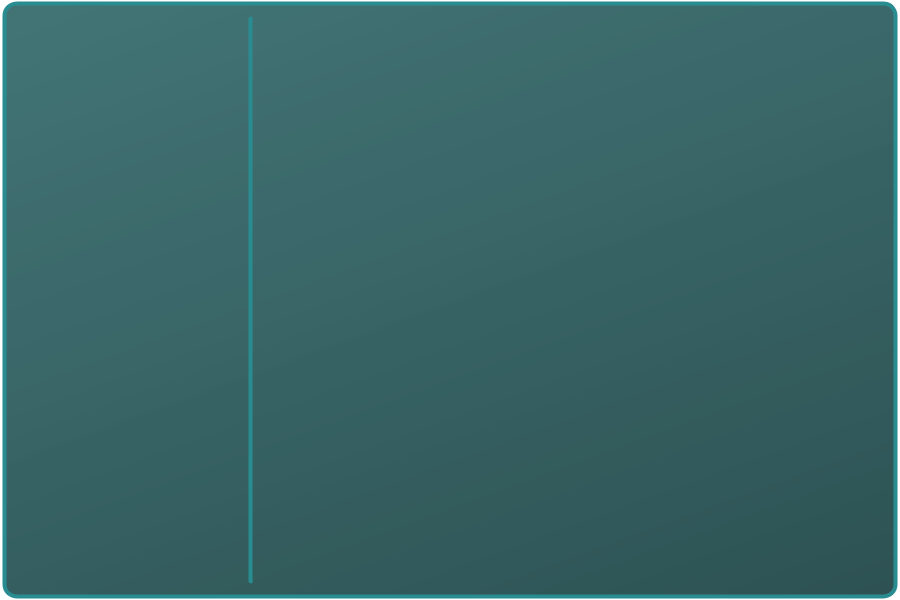
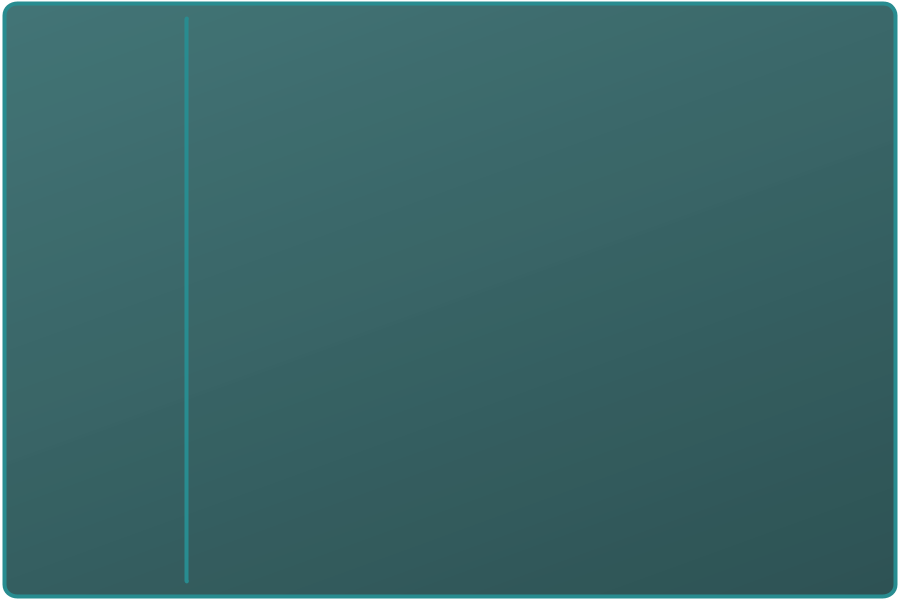
finished storage menu updated storage_menu.png updated storage_menu_layout.json (was previously test layout) added "setup programs", also check_storage_menu_layout.py to check if there are no items missing in storage_layout.json finished main menu of storage menu fixed scrolling inconsistency

Changed region(s): [[0.2489, 0.03, 0.28, 0.96], [0.1867, 0.03, 0.2178, 0.96]]

diff --git a/Files/storage_menu_functions.py b/Files/storage_menu_functions.py
@@ -10,7 +10,8 @@ import copy
 
 storage_font = pg.font.Font('Fonts/Roboto.ttf', 20)
 storage_categories_font = pg.font.Font('Fonts/Lato.ttf', 24)
-
+storage_categories_title_font = pg.font.Font('Fonts/Lato.ttf', 28)
+storage_categories_count_font = pg.font.Font('Fonts/Lato.ttf', 23)
 
 class storageMenu:
     def __init__(self, storage):
@@ -69,13 +70,40 @@ class storageMenu:
         with open("Data/storage_menu_layout.json") as f:
             self.storage_layout = json.load(f) # all items theoretically displayed
         self.menu_display_items = {} # all items displayed (only unlocked items)
+        self.all_menu_display_items = {} # self.menu_display_items but not cut for categories
 
         self.categories_rect = []
         self.selected_category_index = -1
+        self.selected_category = ""
 
-        self.start_line_x = 150 # where the line approx. is with margin incl.
+        self.start_line_x = 185 # where the line approx. is with margin excluded!
+        self.category_scroll = 0 # how much the categories list is scrolled. 0 is default, 1 means that you can't see the top element anymore
+
+        self.max_categories_displayed = 18 # how many categories can be displayed max
+        self.max_lines_displayed = 12 # how many lines in main storage menu can be displayed max
+        self.len_menu_display_items = 1 # length of self.menu_display_items before it is cut by self.category_scroll
+
+        self.columns_in_menu = 5 # amount of columns in main menu of storage 
+        #example of main storage layout
+        '''
+        self.main_storage_layout = [
+            ["foods"],
+            [1, 2, 3],
+            ["minerals"],
+            [4, 5, 6],
+            ["accessories"],
+            [7, 8, 9, 10, 11],
+            [12, 13, 14],
+            ["foods1"],
+            [1, 2, 3]
+        ]
+        '''
+        self.main_storage_layout = []
+        self.main_storage_scrolly = 0
+
 
     def draw_storage_menu(self, screen):
+        # draw storage bar (topleft)
         screen.blit(self.pics["storage_display"], self.topleft_margin)
         blit_x = 20
         blit_x_max = 550
@@ -100,22 +128,59 @@ class storageMenu:
             else:
                 break
 
+        # draw storage btn located in storage bar
         screen.blit(self.pics[f"storage_select_{self.display_order}"], (self.storage_bar_display_size[0] - 50, self.topleft_margin[1] + 9))
         self.sort_btn_rect.x = self.storage_bar_display_size[0] - 50
         self.sort_btn_rect.y = self.topleft_margin[1] + 9
         
+        # draw main menu of storage if opened
         self.categories_rect = []
         if self.menu_open:
             screen.blit(self.pics["storage_menu"], (self.topleft_margin[0], self.topleft_margin[1] + self.storage_bar_display_size[1] + 5))
             categories_blit_y = self.topleft_margin[1] + self.storage_bar_display_size[1] + 20
-            for i, category in enumerate(self.menu_display_items):
-                if self.selected_category_index == i:
-                    category_text = storage_categories_font.render(str(category), True, (180, 180, 180))
-                else:
-                    category_text = storage_categories_font.render(str(category), True, (255, 255, 255))
-                screen.blit(category_text, (25, categories_blit_y))
-                self.categories_rect.append(pg.Rect((25, categories_blit_y), category_text.get_size()))
-                categories_blit_y += 30
+            j = 0 # i but only when category in menu_display_items
+            for i, category in enumerate(self.all_menu_display_items):
+                if category in self.menu_display_items:
+                    if j > self.max_categories_displayed:
+                        break
+
+                    if self.selected_category_index == i:
+                        category_text = storage_categories_font.render(str(category), True, (180, 180, 180))
+                    else:
+                        category_text = storage_categories_font.render(str(category), True, (255, 255, 255))
+                    screen.blit(category_text, (25, categories_blit_y))
+                    self.categories_rect.append([pg.Rect((25, categories_blit_y), category_text.get_size()), i])
+                    categories_blit_y += 30
+                    j += 1
+        
+            blit_scrolly = self.main_storage_scrolly
+            j = 0 # how many lines blit so far
+            for i, line in enumerate(self.main_storage_layout):
+                if blit_scrolly >= 0:
+                    if j <= self.max_lines_displayed:
+                        j += 1
+                        if type(line) is str:
+                            if str(line) == self.selected_category:            
+                                category_title = storage_categories_title_font.render(str(line).capitalize(), True, (180, 180, 180))
+                            else:
+                                category_title = storage_categories_title_font.render(str(line).capitalize(), True, (255, 255, 255))
+
+                            screen.blit(category_title, (210, blit_scrolly + self.topleft_margin[1] + self.storage_bar_display_size[1] + 18))
+                        else:
+                            blit_x = 0
+                            for item in line:
+                                item_id = item
+                                screen.blit(self.item_pics[item_id if item_id != 0 else 'r'], (210 + blit_x, blit_scrolly + self.topleft_margin[1] + self.storage_bar_display_size[1] + 18))
+                                blit_x += 45
+                                num = self.storage[item]
+                                if self.storage[item] > 9999:
+                                    num = self.compact_number(qty)
+                                count_text = storage_categories_count_font.render(str(num), True, (255, 255, 255))
+                                screen.blit(count_text, (210 + blit_x, blit_scrolly + self.topleft_margin[1] + self.storage_bar_display_size[1] + 18))
+                                blit_x += 88
+                    else:
+                        break # no reason to continue looping
+                blit_scrolly += 45
 
     def compact_number(self, num):
         num = float('{:.3g}'.format(num))
@@ -123,7 +188,9 @@ class storageMenu:
         while abs(num) >= 1000:
             magnitude += 1
             num /= 1000.0
-        return '{}{}'.format('{:f}'.format(num).rstrip('0').rstrip('.'), ['', 'k', 'M', 'B', 'T', 'Qa.', 'Qu.', 'Se.', 'Sep.', 'Oct.'][magnitude])
+        if magnitude > 9:
+            return '999 Oct.+'
+        return '{} {}'.format('{:f}'.format(num).rstrip('0').rstrip('.'), ['', 'k', 'M', 'B', 'T', 'Qa.', 'Qu.', 'Se.', 'Sep.', 'Oct.'][magnitude])
 
     def update_display_items(self, unlocked_recipes, creater_unlocked_recipes):
         self.display_items = []
@@ -145,7 +212,6 @@ class storageMenu:
             for avg_item in avg_sorted:
                 if avg_sorted[avg_item] != 0.0:
                     self.display_items.append(avg_item)
-
 
         delete_indexes = []
         for i, item in enumerate(self.display_items):
@@ -175,6 +241,25 @@ class storageMenu:
             if self.menu_display_items[category] == []:
                 del self.menu_display_items[category]
         
+        self.len_menu_display_items = len(list(self.menu_display_items.keys()))
+        self.all_menu_display_items = copy.copy(self.menu_display_items)
+
+        keys = list(self.menu_display_items.keys())
+        for i in range(self.category_scroll):
+            del self.menu_display_items[keys[i]]
+
+        self.main_storage_layout = []
+        for disp_i in self.all_menu_display_items:
+            self.main_storage_layout.append(str(disp_i))
+            item_batch = [] # adding items in batches of 5 to main_storage_layout (5 = self.columns_in_menu)
+            for item in self.all_menu_display_items[disp_i]: 
+                item_batch.append(item)
+                if len(item_batch) >= self.columns_in_menu:
+                    self.main_storage_layout.append(item_batch)
+                    item_batch = []
+            if len(item_batch) > 0:
+                self.main_storage_layout.append(item_batch)
+
     def update_storage(self, storage, unlocked_recipes, creater_unlocked_recipes):
         self.storage = storage
         if self.update_prev_storage_perf + 10 <= t.perf_counter():
@@ -196,12 +281,16 @@ class storageMenu:
             elif pg.Rect(self.topleft_margin, self.storage_bar_display_size).collidepoint(mx, my):
                 self.menu_open = not self.menu_open
             elif self.menu_open:
-                for i, rect in enumerate(self.categories_rect):
+                for rect, i in self.categories_rect:
                     if rect.collidepoint(mx, my):
                         if self.selected_category_index == i:
                             self.selected_category_index = -1
+                            self.selected_category = ""
                         else:    
                             self.selected_category_index = i
+                            self.selected_category = list(self.all_menu_display_items.keys())[i]
+                            if self.selected_category in self.main_storage_layout:
+                                self.main_storage_scrolly = -self.main_storage_layout.index(self.selected_category) * 45
 
     def scroll_in_bar(self, scroll, unlocked_recipes, creater_unlocked_recipes):
         scroll_dir = "up" if scroll == 4 else "down" 
@@ -215,3 +304,19 @@ class storageMenu:
             self.start_view_items = max(0, self.start_view_items-1)
 
         self.update_display_items(unlocked_recipes, creater_unlocked_recipes)
+
+    def scroll_in_menu(self, scroll, mx, my, unlocked_recipes, creater_unlocked_recipes):
+        scroll_dir = "up" if scroll == 4 else "down" 
+        if mx > self.start_line_x: # scrolling in the main part of storage menu
+            if scroll_dir == "up":
+                self.main_storage_scrolly = min(self.main_storage_scrolly + 45, 0)
+            else:
+                self.main_storage_scrolly = max(self.main_storage_scrolly - 45, -(len(self.main_storage_layout)-7) * 45)
+
+        else: # in side bar
+            if scroll_dir == "up":
+                self.category_scroll = min(max(self.len_menu_display_items - 10, 0), self.category_scroll - 1)
+            else:
+                self.category_scroll = max(0, self.category_scroll+1)
+
+            self.update_display_items(unlocked_recipes, creater_unlocked_recipes)

diff --git a/factory.py b/factory.py
@@ -859,8 +859,7 @@ while playing and __name__ == "__main__":
                     if my <= storage_menu.load_imgs[0][2] + 15 and mx < storage_menu.load_imgs[0][1] + 15:
                         storage_menu.scroll_in_bar(e.button, unlocked_recipes, creater_unlocked_recipes)
                     elif storage_menu.menu_open == True and my <= storage_menu.load_imgs[5][2] + storage_menu.load_imgs[0][2] + 15 and mx < storage_menu.load_imgs[5][1] + 15: # only when storage menu is opened
-                        stop_mouse_placement = True
-                        storage_menu.mouse_interaction(mx, my, True)
+                        storage_menu.scroll_in_menu(e.button, mx, my, unlocked_recipes, creater_unlocked_recipes)
                     elif keybind_menu:
                         if e.button == 4:#scroll up
                             if k_scrolly < rect_keybinds.get_height()-screen_size[1]:

diff --git a/Setup Programs/check_storage_menu_layout.py b/Setup Programs/check_storage_menu_layout.py
@@ -1,0 +1,20 @@
+import json
+
+with open("Data/storage_menu_layout.json") as f:
+    storage_menu_layout = json.load(f)
+
+items_used = []
+for category in storage_menu_layout:
+    print(category)
+    for item in storage_menu_layout[category]:
+        print(item)
+        items_used.append(item)
+
+items_used = sorted(items_used)
+prev_item = 0
+for item in items_used:
+    if prev_item != item - 1:
+        
+        print("unincluded", item-1)
+
+    prev_item = item
